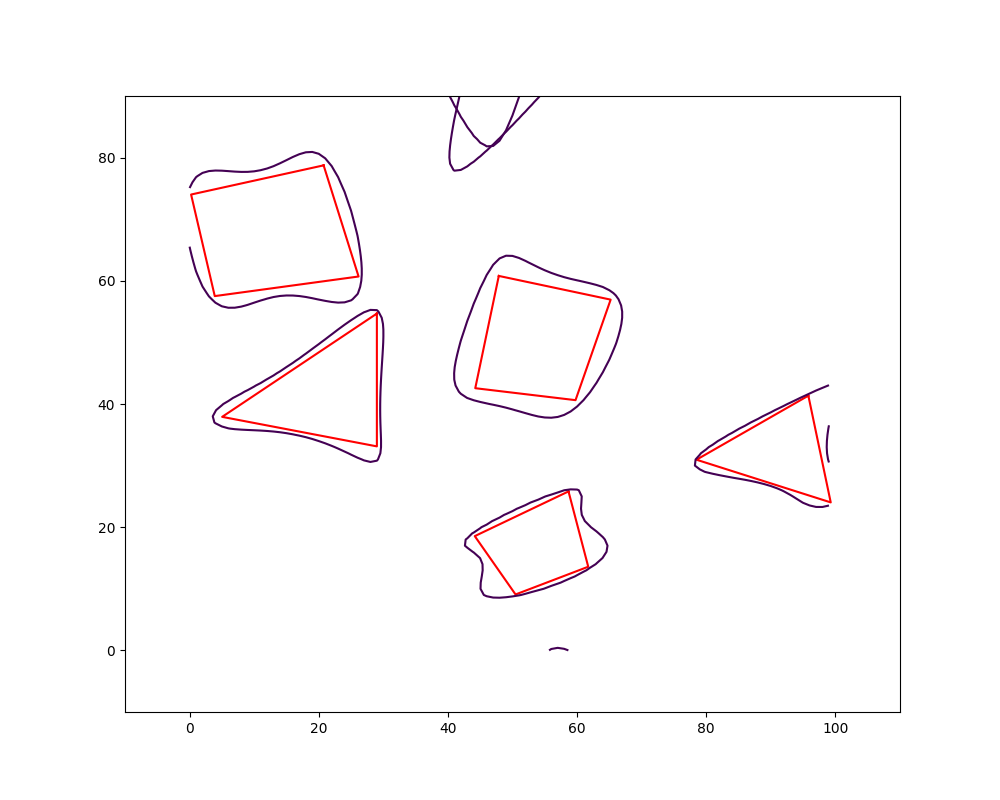
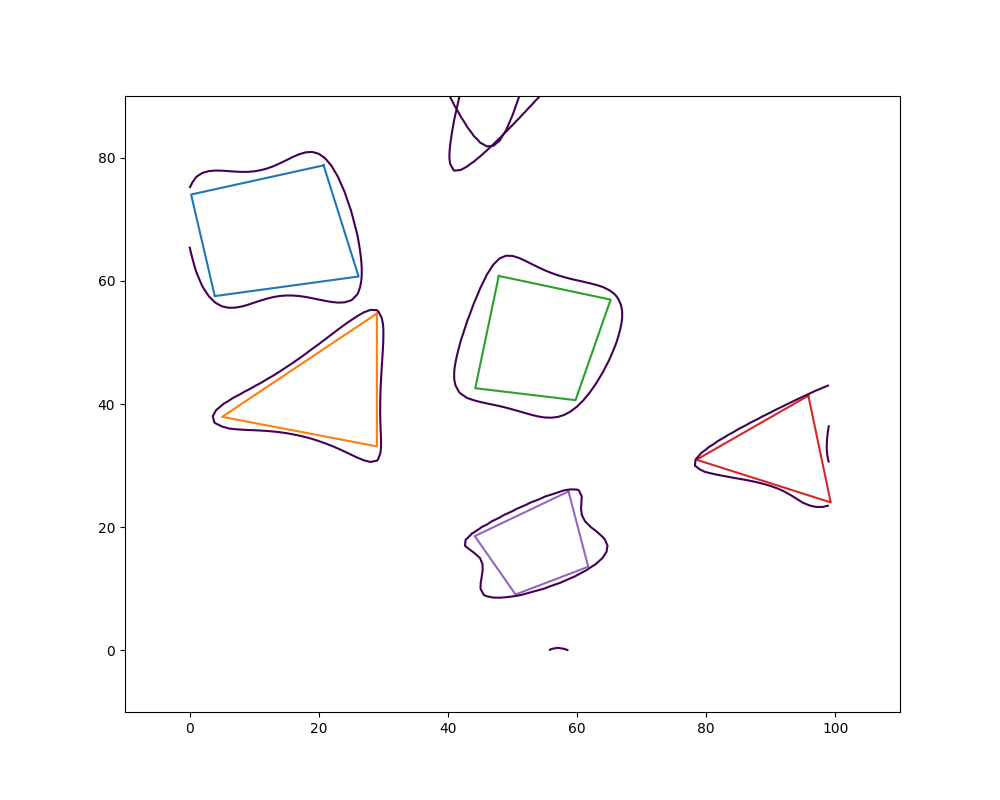
deleted the color setting red in draw_poly method to use the default colors differentiating each polygon

diff --git a/original_polygon.py b/original_polygon.py
@@ -163,7 +163,7 @@ def draw_poly(obs, sd):
     plt.figure(figsize=(10, 8))
 
     for new_points in new_all_points:
-        plt.plot(new_points[:, 0], new_points[:, 1], 'r-')
+        plt.plot(new_points[:, 0], new_points[:, 1])
 
     # plt.scatter(x_p[p_value == 0], y_p[p_value == 0], c='blue', label='Free Space', s=3)
     # plt.scatter(x_p[p_value == 1], y_p[p_value == 1], c='red', label='Obstacle', s=3)

diff --git a/README.md b/README.md
@@ -21,7 +21,7 @@
 
 + Using logistic regression to construct polynomial barrier functions to represent complex obstacles
   + Somehow the functions in the existing package does not look good on the result, so we write our own sigmoid, regularized loss function, and the gradient.
-  + Constructing barrier functions h(x) and draw the contour to represent the obstacles.
+  + Constructing polynomial barrier function h(x) and draw the contour to represent the obstacles.
   + Problems & future work: 
     + If the obstacles are too small, then the obstacle/free space ratio is too small, causing the simulating of polygons being affected.
     + There are other points (mostly outside the map) that satisfy $$\beta z^T = 0$$ so as shown in the [figure](#image-anchor), there will be dots and lines other than just the obstacles.
